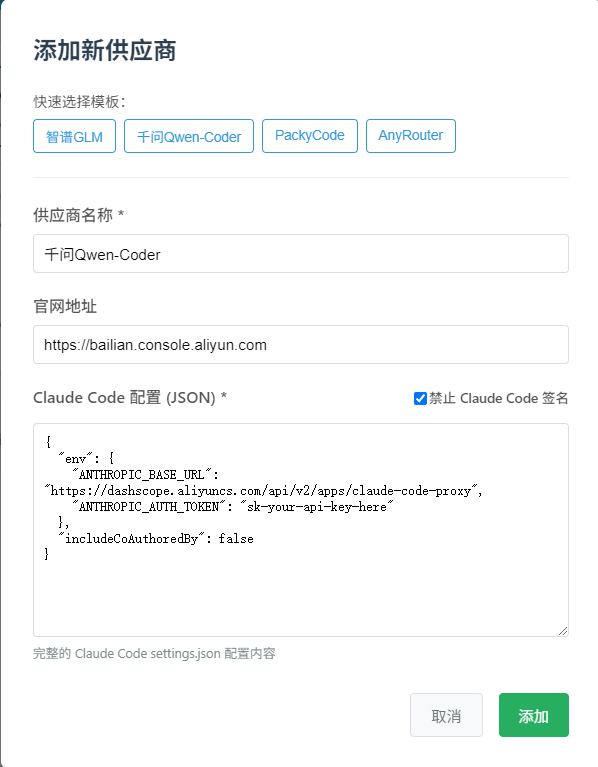
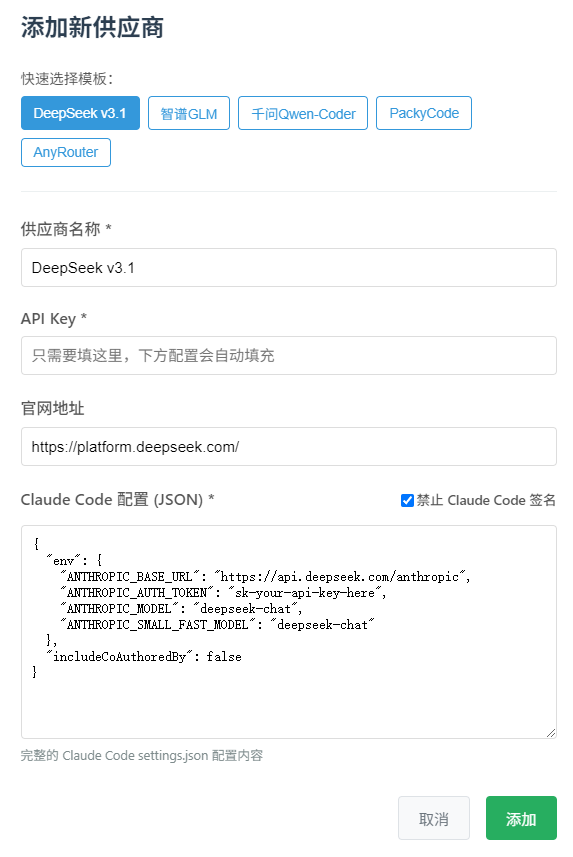
更新文档

diff --git a/src/renderer/config/providerPresets.ts b/src/renderer/config/providerPresets.ts
@@ -9,6 +9,18 @@ export interface ProviderPreset {
 
 export const providerPresets: ProviderPreset[] = [
   {
+    name: "DeepSeek v3.1",
+    websiteUrl: "https://platform.deepseek.com/",
+    settingsConfig: {
+      env: {
+        ANTHROPIC_BASE_URL: "https://api.deepseek.com/anthropic",
+        ANTHROPIC_AUTH_TOKEN: "sk-your-api-key-here",
+        ANTHROPIC_MODEL: "deepseek-chat",
+        ANTHROPIC_SMALL_FAST_MODEL: "deepseek-chat",
+      },
+    },
+  },
+  {
     name: "智谱GLM",
     websiteUrl: "https://open.bigmodel.cn",
     settingsConfig: {
@@ -26,18 +38,6 @@ export const providerPresets: ProviderPreset[] = [
         ANTHROPIC_BASE_URL:
           "https://dashscope.aliyuncs.com/api/v2/apps/claude-code-proxy",
         ANTHROPIC_AUTH_TOKEN: "sk-your-api-key-here",
-      },
-    },
-  },
-  {
-    name: "DeepSeek v3.1",
-    websiteUrl: "https://platform.deepseek.com/",
-    settingsConfig: {
-      env: {
-        ANTHROPIC_BASE_URL: "https://api.deepseek.com/anthropic",
-        ANTHROPIC_AUTH_TOKEN: "sk-your-api-key-here",
-        ANTHROPIC_MODEL: "deepseek-chat",
-        ANTHROPIC_SMALL_FAST_MODEL: "deepseek-chat",
       },
     },
   },

diff --git a/README.md b/README.md
@@ -4,7 +4,8 @@
 
 ## 功能特性
 
-- 一键切换不同供应商（智谱 GLM、Qwen coder、packycode 等）
+- 一键切换不同供应商
+- 智谱 GLM、Qwen coder、DeepSeek v3.1、packycode 等预设供应商只需要填写 key 即可一键配置
 - 支持添加自定义供应商
 - 简洁美观的图形界面
 - 信息存储在本地 ~/.cc-switch/config.json，无隐私风险
@@ -12,9 +13,11 @@
 ## 界面预览
 
 ### 主界面
+
 ![主界面](screenshots/main.png)
 
 ### 添加供应商
+
 ![添加供应商](screenshots/add.png)
 
 ## 下载安装
@@ -34,7 +37,7 @@
 
 从 [Releases](../../releases) 页面下载：
 
-- **通用版本（推荐）**: `CC Switch-x.x.x-mac.zip` - Intel版本，兼容所有Mac（包括M系列芯片）
+- **通用版本（推荐）**: `CC Switch-x.x.x-mac.zip` - Intel 版本，兼容所有 Mac（包括 M 系列芯片）
 
 #### macOS 安装说明
 
@@ -42,29 +45,31 @@
 
 由于作者没有苹果开发者账号，应用使用 ad-hoc 签名（未经苹果官方认证），首次打开时可能出现"未知开发者"警告。这是正常的安全提示，处理方法：
 
-**方法1 - 系统设置**：
+**方法 1 - 系统设置**：
+
 1. 双击应用时选择"取消"
-2. 打开"系统设置" → "隐私与安全性"  
+2. 打开"系统设置" → "隐私与安全性"
 3. 在底部找到被阻止的应用，点击"仍要打开"
 4. 确认后即可正常使用
 
-**方法2 - 自行编译**：
+**方法 2 - 自行编译**：
+
 1. Clone 代码到本地：`git clone https://github.com/farion1231/cc-switch.git`
 2. 安装依赖：`pnpm install`
 3. 编译代码：`pnpm run build`
 4. 打包应用：`pnpm run dist`
 5. 在项目 release 目录找到编译好的应用包
 
-
-
 **安全保障**：
+
 - 应用已通过 ad-hoc 代码签名，确保文件完整性
 - 源代码完全开源，可在 GitHub 审查
 - 本地存储配置，无网络传输风险
 
 **技术说明**：
+
 - 使用 Intel x64 架构，通过 Rosetta 2 在 M 系列芯片上运行
-- 兼容性和稳定性最佳，性能损失minimal
+- 兼容性和稳定性最佳，性能损失 minimal
 - 避免了 ARM64 原生版本的签名复杂性问题
 
 ### Linux 用户
@@ -72,6 +77,7 @@
 - **AppImage**: `CC Switch-x.x.x.AppImage`
 
 下载后添加执行权限：
+
 ```bash
 chmod +x CC-Switch-x.x.x.AppImage
 ```
